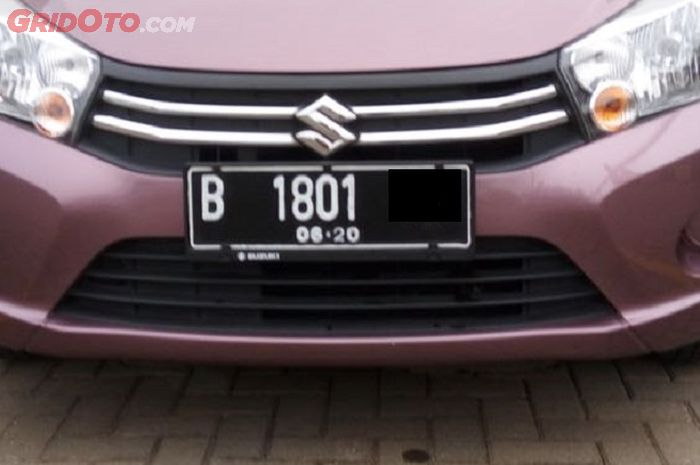
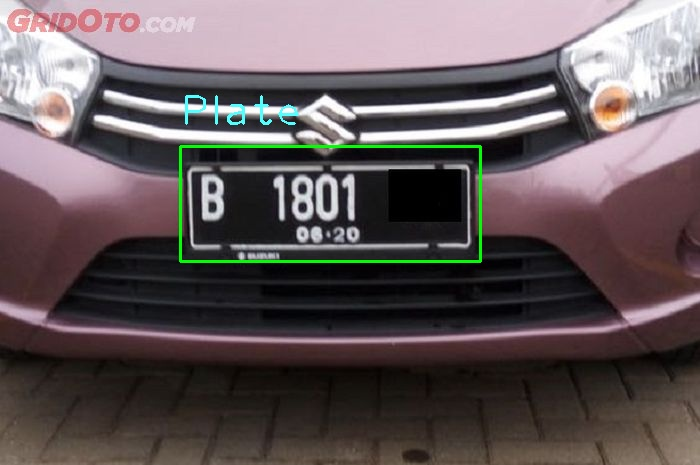
feat: implement web interface using flask

Changed region(s): [[0.24, 0.3011, 0.69, 0.572], [0.24, 0.1806, 0.45, 0.271]]

diff --git a/templates/upload.html b/templates/upload.html
@@ -1,0 +1,34 @@
+<!DOCTYPE html>
+<html lang="en">
+<head>
+  <title>Number plate detection</title>
+  <meta charset="utf-8">
+  <meta name="viewport" content="width=device-width, initial-scale=1">
+  <link rel="stylesheet" href="https://maxcdn.bootstrapcdn.com/bootstrap/4.5.2/css/bootstrap.min.css">
+</head>
+<body>
+
+<div class="container mt-3">
+  <h2>Upload your number plate image</h2>
+  <p>We can use camera sensor to get number plate image.</p>
+  {% if success_detected and filename %}
+    <p style="font-weight: bold; color: green">Number plate is detected !!</p>
+    <p style="font-weight: bold; color: green">Accuracy : {{ accuracy }} %</p>
+    <img src="{{ url_for('static', filename=filename) }}" alt="" height="500" width="500">
+  {% endif %}
+  {% if not success_detected %}
+    <p style="font-weight: bold; color: darkred">Number plate is not detected</p>
+  {% endif %}
+  <form action="/upload" method="POST" enctype="multipart/form-data">
+    <div class="custom-file mb-3">
+      <input type="file" name="photo">
+    </div>
+
+    <div class="mt-3">
+      <button type="submit" class="btn btn-primary">Upload</button>
+    </div>
+  </form>
+</div>
+<script src="https://maxcdn.bootstrapcdn.com/bootstrap/4.5.2/js/bootstrap.min.js"></script>
+</body>
+</html>

diff --git a/detector.py b/detector.py
@@ -1,11 +1,12 @@
 # Source  : https://github.com/deepraj1729/yplate/blob/master/yplate/commands.py
+import os
 
 import cv2
 import json
 import numpy as np
 
 
-def detect(img_name, cfg, weights, classes, hide_img=False, hide_out=False):
+def detect(img_name, cfg, weights, classes, hide_img=False, hide_out=False, save_img=False):
     try:
         # Load image file
         img = cv2.imread(img_name)
@@ -81,33 +82,37 @@ def detect(img_name, cfg, weights, classes, hide_img=False, hide_out=False):
         no_of_detected_plates = len(crop_rect)
         confidences = confidences[-no_of_detected_plates:]
 
-        # Show image (default show image)
-        if not hide_img:
-            cv2.imshow("Output Image", img)
-            key = cv2.waitKey(2000) & 0xFF
-            if key == ord('q'):
-                cv2.destroyAllWindows()
-
-        # Silence output or not
-        if not hide_out:
-            if no_of_detected_plates > 0:
-                data = {
-                    "output": {
-                        "model": "YOLO v3",
-                        "confidence": "{}".format(confidences),
-                        "cropped_rectangles": "{}".format(crop_rect),
-                        "plates_found": "{}".format(no_of_detected_plates),
-                        "class_ids": "{}".format(class_ids)
-                    }
+        if save_img and no_of_detected_plates > 0:
+            data = {
+                "output": {
+                    "model": "YOLO v3",
+                    "confidence": "{}".format(confidences),
+                    "cropped_rectangles": "{}".format(crop_rect),
+                    "plates_found": "{}".format(no_of_detected_plates),
+                    "class_ids": "{}".format(class_ids)
                 }
-                print(json.dumps(data, indent=2))
-                print("\nPlat nomor terdeteksi !!")
-            else:
-                print("Plat nomor tidak terdeteksi ")
+            }
+            print(json.dumps(data, indent=2))
+        file_path = img_name.split("/")
+        file_name = file_path[-1]
+        try:
+            cv2.imwrite('static/' + file_name, img)
+            print("Detected image saved in 'output' directory as '" + file_name + "'")
+        except:
+            print(f"An error occured when saving image")
 
-        return confidences, crop_rect, class_ids
+        return confidences, no_of_detected_plates, class_ids
+
     except AttributeError as error:
         print("File not found in the given path '{}' ".format(img_name))
 
     except Exception as e:
         print(f"{e} \n Oops!Couldn't detect plate due to some errors. Check command line inputs")
+
+
+def load_model():
+    dirname = os.path.dirname(__file__)
+    cfg = os.path.join(dirname, 'input/plate.cfg')
+    weights = os.path.join(dirname, 'input/plate.weights')
+    label = ['Plate']
+    return cfg, weights, label

diff --git a/main.py b/main.py
@@ -1,31 +1,34 @@
 import os.path
-import argparse
 
-from detector import detect
+from detector import detect, load_model
+from flask import Flask, render_template, request
 
-
-def load_model():
-    dirname = os.path.dirname(__file__)
-    cfg = os.path.join(dirname, 'input/plate.cfg')
-    weights = os.path.join(dirname, 'input/plate.weights')
-    label = ['Plate']
-    return cfg, weights, label
+app = Flask(__name__)
+cfg, weights, classes = load_model()
 
 
-def main():
-    cfg, weights, classes = load_model()
-    parser = argparse.ArgumentParser(description="Deteksi plat nomor pada kendaraan")
-    sub_parser = parser.add_subparsers(title="daftar perintah", dest="command")
+@app.route('/')
+def index():
+    return render_template('upload.html')
 
-    parser_detect = sub_parser.add_parser('detect', help='Deteksi plat nomor')
-    parser_detect.add_argument('input', type=str)
 
-    args = parser.parse_args()
-    image = args.input
+@app.route('/upload', methods=['GET', 'POST'])
+def upload():
+    file = request.files['photo']
 
-    detect(image, cfg, weights, classes)
+    # save image file to directory
+    file_path = os.path.join(os.getcwd(), 'images', file.filename)
+    file.save(file_path)
+
+    # perform object detection
+    confidences, no_of_detected, class_ids = detect(file_path, cfg, weights, classes, save_img=True)
+    if no_of_detected > 0:
+        accuracy = float("{:.2f}".format(confidences[0])) * 100
+        return render_template('upload.html', filename=file.filename, accuracy=accuracy, success_detected=True)
+    else:
+        return render_template('upload.html', filename=file.filename, success_detected=False)
 
 
 # Press the green button in the gutter to run the script.
 if __name__ == '__main__':
-    main()
+    app.run("0.0.0.0", 5000, debug=True)
